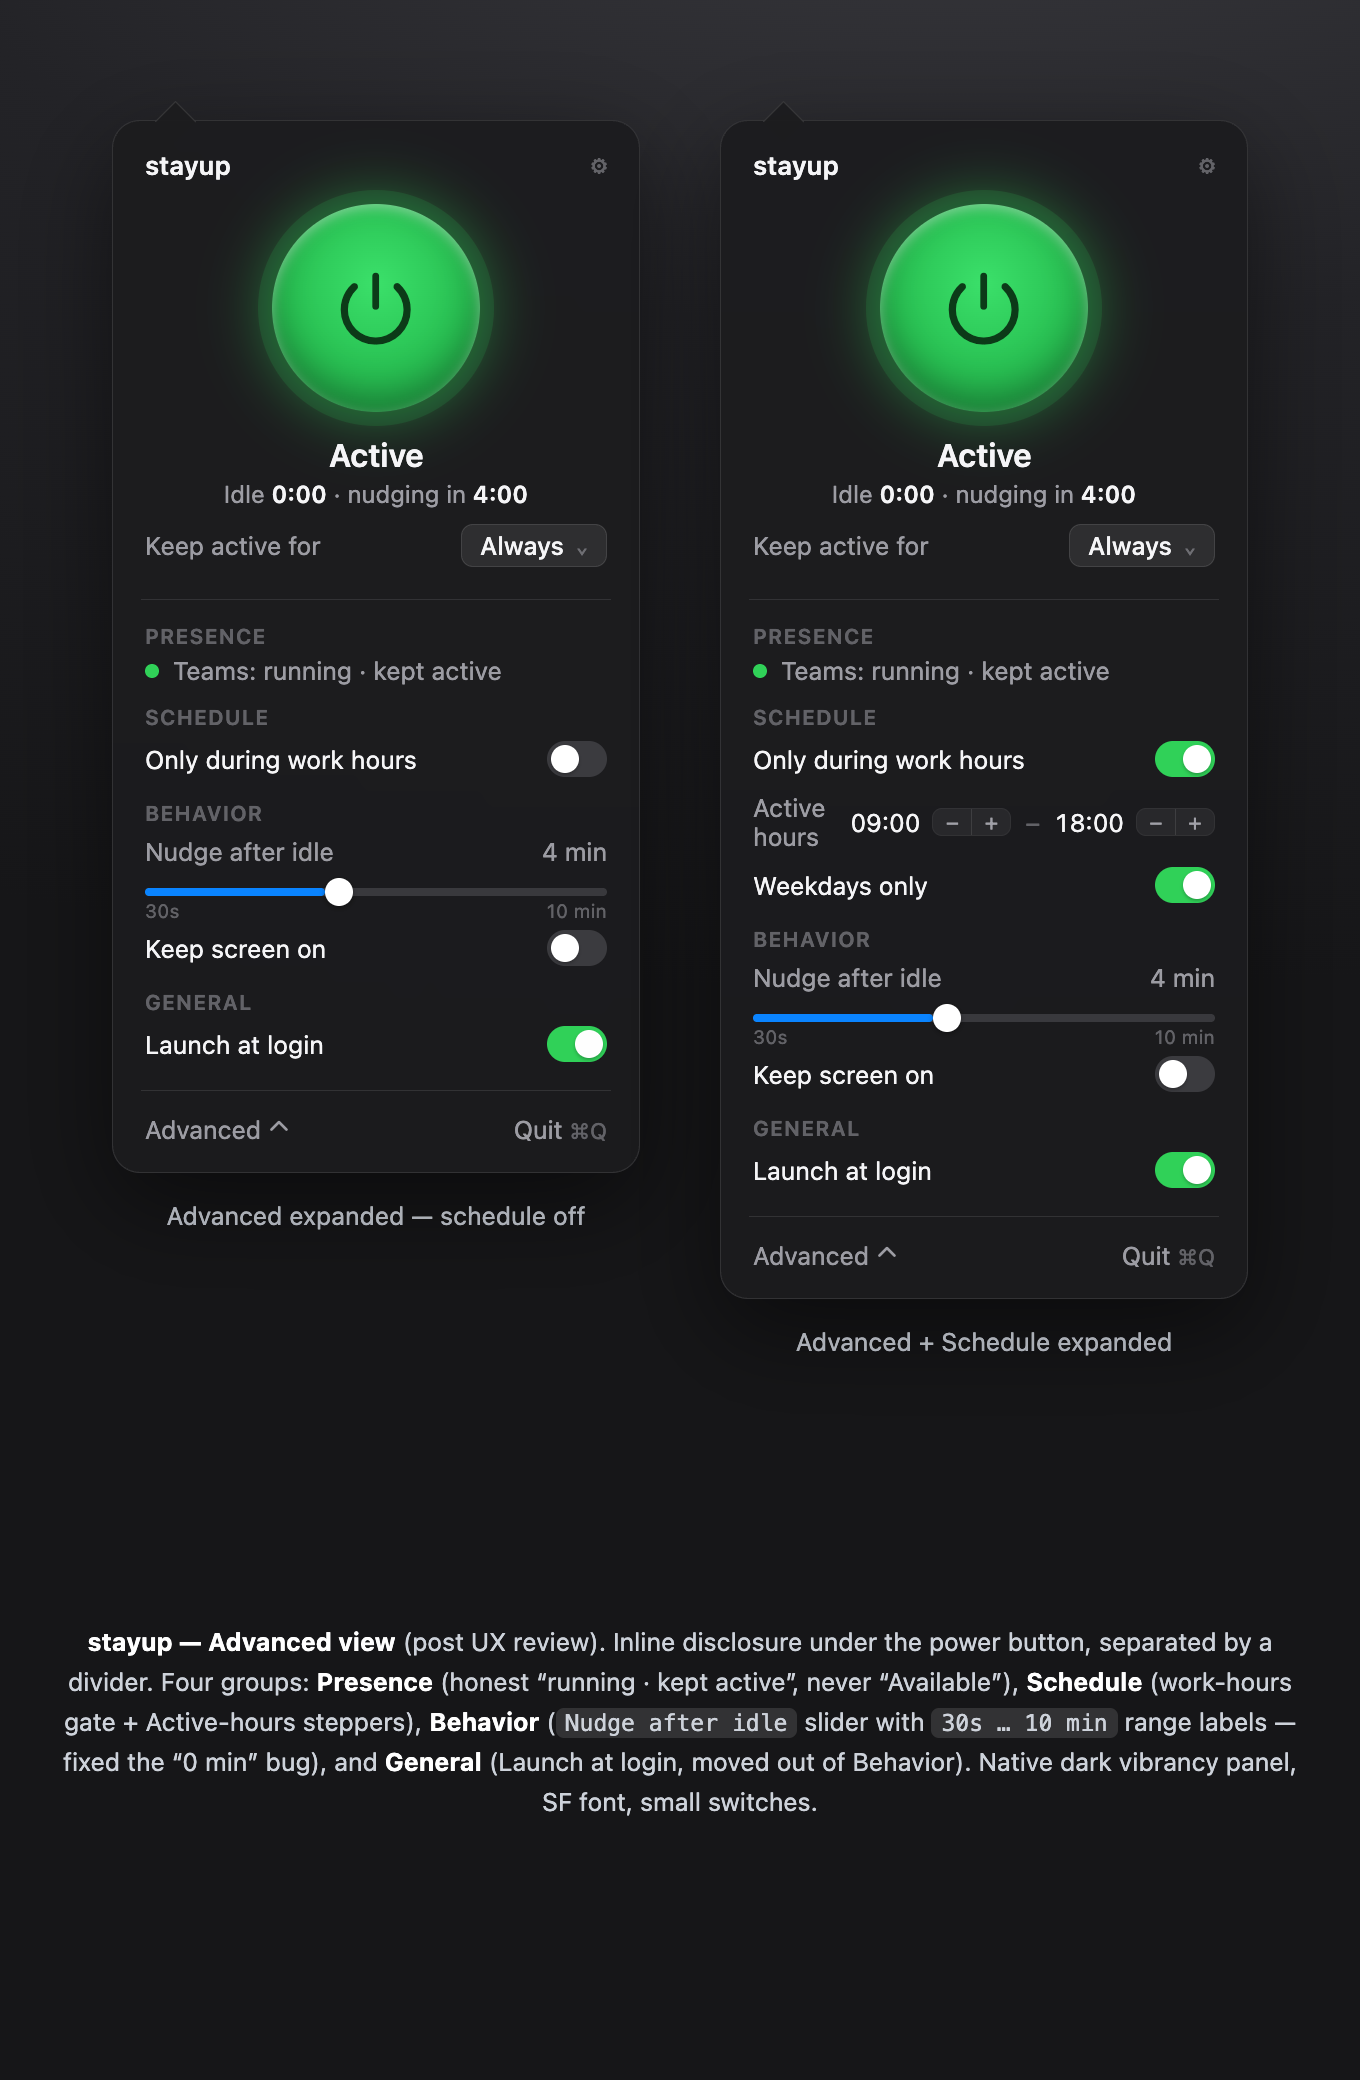
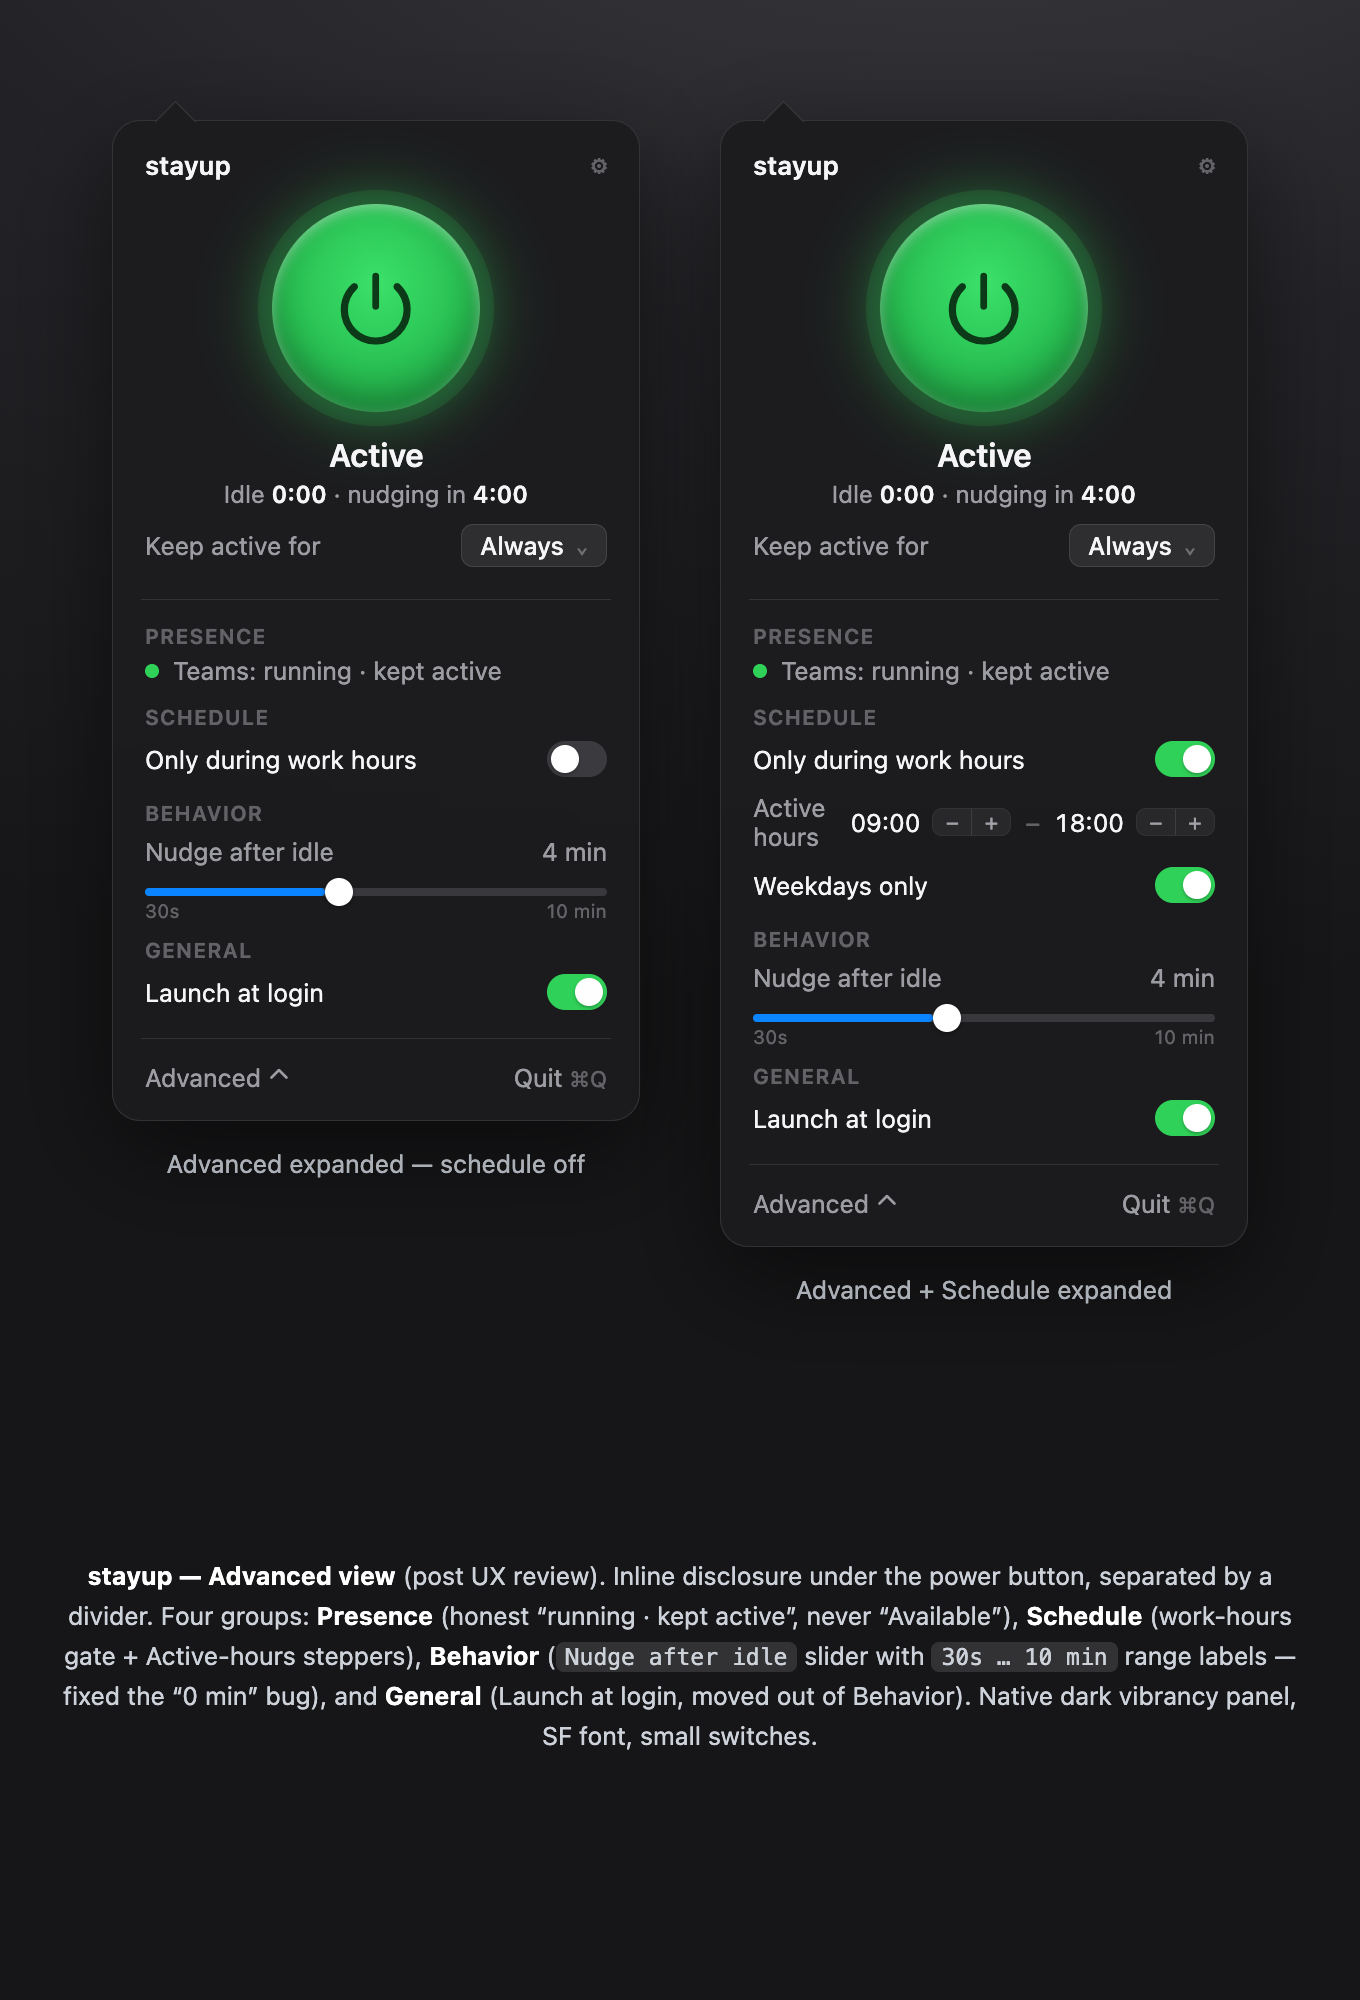
feat: always keep screen on while active; remove the now-meaningless toggle
Keeping the screen on is the only way to stay green hands-off (macOS ignores synthetic
input once locked), so the OFF mode was a footgun. Now always holds the display-sleep
assertion while active. Removed the Keep-screen-on toggle + docs/mockup.

Claude-Session: https://claude.ai/code/session_01Jfo7QMdyuiQa8VFzN3ZjDt

diff --git a/stayup/Services/ActivityController.swift b/stayup/Services/ActivityController.swift
@@ -1,10 +1,12 @@
 import SwiftUI
 import AppKit
 import ApplicationServices
+import IOKit.pwr_mgt
 
 /// The brain. Owns the Active/Paused state machine, drives the 1-second tick
-/// that reads idle time and fires the nudge, handles the duration timer,
-/// screen-lock suspension, and schedule gating.
+/// that reads idle time and fires the nudge, handles the duration timer and
+/// schedule gating, and — while Active — holds an IOKit power assertion so the
+/// Mac doesn't idle-sleep (sleeping would stop the nudge and drop you to Away).
 ///
 /// Single shared instance so the global hotkey can reach it without wiring.
 @MainActor
@@ -13,7 +15,6 @@ final class ActivityController: ObservableObject {
 
     enum Mode: Equatable { case paused, activeAlways, activeTimed }
 
-    /// Duration the picker offers. `.always` = no timer.
     enum Duration: String, CaseIterable, Identifiable {
         case always, h1 = "1", h2 = "2", h4 = "4"
         var id: String { rawValue }
@@ -35,21 +36,24 @@ final class ActivityController: ObservableObject {
         }
     }
 
-    // MARK: Published state (drives the UI)
+    // MARK: Published state
     @Published private(set) var mode: Mode = .paused
     @Published private(set) var timerEnd: Date?
     @Published private(set) var idleSeconds: Int = 0
-    @Published private(set) var isLocked: Bool = false
     @Published private(set) var isTrusted: Bool = PermissionManager.isTrusted()
     @Published var duration: Duration {
         didSet {
             UserDefaults.standard.set(duration.rawValue, forKey: "durationChoice")
-            if isActive { applyActive() }  // re-arm with the new duration
+            if isActive { applyActive() }
         }
     }
 
     private nonisolated(unsafe) var timer: Timer?
     private var notifiedExpiry = false
+
+    // Power assertion (keep the screen on — and Mac awake — while Active, so it
+    // never locks and the nudge keeps you green even when you step away).
+    private var sleepAssertionID: IOPMAssertionID = 0
 
     var isActive: Bool { mode != .paused }
 
@@ -66,7 +70,6 @@ final class ActivityController: ObservableObject {
         isActive ? pause() : applyActive()
     }
 
-    /// Turn on using the currently selected duration.
     func applyActive() {
         if let secs = duration.seconds {
             mode = .activeTimed
@@ -77,12 +80,14 @@ final class ActivityController: ObservableObject {
         }
         notifiedExpiry = false
         persist()
+        reconcilePowerAssertion()
     }
 
     func pause() {
         mode = .paused
         timerEnd = nil
         persist()
+        reconcilePowerAssertion()
     }
 
     func requestPermission() {
@@ -90,13 +95,11 @@ final class ActivityController: ObservableObject {
     }
 
     // MARK: Derived display values
-    /// Seconds until the next nudge fires (the idle countdown). 0 when not active.
     var secondsUntilNudge: Int {
-        guard isActive, !isLocked else { return 0 }
+        guard isActive else { return 0 }
         return max(0, idleThreshold - idleSeconds)
     }
 
-    /// Remaining time in a timed session, or nil when not timed.
     var timedRemaining: TimeInterval? {
         guard mode == .activeTimed, let end = timerEnd else { return nil }
         return max(0, end.timeIntervalSinceNow)
@@ -113,15 +116,9 @@ final class ActivityController: ObservableObject {
         return v == 0 ? 240 : v
     }
     private var scheduleEnabled: Bool { UserDefaults.standard.bool(forKey: "scheduleEnabled") }
-    private var scheduleStart: Int {
-        UserDefaults.standard.object(forKey: "scheduleStartHour") as? Int ?? 9
-    }
-    private var scheduleEnd: Int {
-        UserDefaults.standard.object(forKey: "scheduleEndHour") as? Int ?? 18
-    }
-    private var scheduleWeekdaysOnly: Bool {
-        UserDefaults.standard.object(forKey: "scheduleWeekdaysOnly") as? Bool ?? true
-    }
+    private var scheduleStart: Int { UserDefaults.standard.object(forKey: "scheduleStartHour") as? Int ?? 9 }
+    private var scheduleEnd: Int { UserDefaults.standard.object(forKey: "scheduleEndHour") as? Int ?? 18 }
+    private var scheduleWeekdaysOnly: Bool { UserDefaults.standard.object(forKey: "scheduleWeekdaysOnly") as? Bool ?? true }
 
     // MARK: The tick
     private func startTicking() {
@@ -129,8 +126,6 @@ final class ActivityController: ObservableObject {
             Task { @MainActor in self?.tick() }
         }
         t.tolerance = 0.2
-        // .common modes so the tick keeps firing while the popover/menu is open
-        // (a default-mode timer freezes during UI tracking).
         RunLoop.main.add(t, forMode: .common)
         timer = t
         tick()
@@ -142,13 +137,14 @@ final class ActivityController: ObservableObject {
 
         if expireIfNeeded() { return }
 
+        reconcilePowerAssertion()
+
         guard shouldNudgeNow() else { return }
         if idleSeconds >= idleThreshold {
             ActivityInjector.nudge()
         }
     }
 
-    /// Returns true if a timed session just expired (and was paused).
     @discardableResult
     private func expireIfNeeded() -> Bool {
         guard mode == .activeTimed, let end = timerEnd, Date() >= end else { return false }
@@ -160,24 +156,47 @@ final class ActivityController: ObservableObject {
         return true
     }
 
+    /// Whether stayup should be actively keeping you up right now. Lock state is
+    /// intentionally NOT considered — while Active, stayup keeps you online
+    /// regardless of whether the screen is locked.
     private func shouldNudgeNow() -> Bool {
-        guard isActive, isTrusted, !isLocked else { return false }
-        // A timed session is an explicit override — it ignores the schedule.
-        if mode == .activeTimed { return true }
+        guard isActive, isTrusted else { return false }
+        if mode == .activeTimed { return true }  // timer overrides the schedule
         if scheduleEnabled {
             return ScheduleManager.isWithin(
-                startHour: scheduleStart,
-                endHour: scheduleEnd,
-                weekdaysOnly: scheduleWeekdaysOnly
-            )
+                startHour: scheduleStart, endHour: scheduleEnd, weekdaysOnly: scheduleWeekdaysOnly)
         }
         return true
     }
 
+    // MARK: Power assertion (keep awake)
+    /// While active, prevent display sleep — this keeps the screen on so the Mac
+    /// never locks, which is the only way the nudge can keep you green when you
+    /// step away (macOS ignores synthetic input once the screen is locked).
+    private func reconcilePowerAssertion() {
+        if shouldNudgeNow() {
+            guard sleepAssertionID == 0 else { return }  // already held
+            var id: IOPMAssertionID = 0
+            let r = IOPMAssertionCreateWithName(
+                kIOPMAssertionTypePreventUserIdleDisplaySleep as CFString,
+                IOPMAssertionLevel(kIOPMAssertionLevelOn),
+                "stayup is keeping you active" as CFString, &id)
+            if r == kIOReturnSuccess { sleepAssertionID = id }
+        } else {
+            releaseAssertion()
+        }
+    }
+
+    private func releaseAssertion() {
+        if sleepAssertionID != 0 {
+            IOPMAssertionRelease(sleepAssertionID)
+            sleepAssertionID = 0
+        }
+    }
+
     // MARK: State persistence
     private func restoreState() {
-        // Always start Paused. The user explicitly turns stayup on each session —
-        // granting permission or launching should never silently start nudging.
+        // Always start Paused. The user explicitly turns stayup on each session.
         mode = .paused
         timerEnd = nil
         persist()
@@ -198,30 +217,17 @@ final class ActivityController: ObservableObject {
         }
     }
 
-    // MARK: Lock / wake handling
+    // MARK: Wake handling (recompute timed expiry from wall-clock on wake)
     private func observeSystemEvents() {
-        let dnc = DistributedNotificationCenter.default()
-        dnc.addObserver(forName: .init("com.apple.screenIsLocked"), object: nil, queue: .main) { [weak self] _ in
-            Task { @MainActor in self?.isLocked = true }
-        }
-        dnc.addObserver(forName: .init("com.apple.screenIsUnlocked"), object: nil, queue: .main) { [weak self] _ in
-            Task { @MainActor in self?.handleWakeOrUnlock() }
-        }
         NSWorkspace.shared.notificationCenter.addObserver(
             forName: NSWorkspace.didWakeNotification, object: nil, queue: .main
         ) { [weak self] _ in
-            Task { @MainActor in self?.handleWakeOrUnlock() }
+            Task { @MainActor in self?.expireIfNeeded() }
         }
-    }
-
-    /// On unlock or wake, clear the lock flag and recompute expiry from the
-    /// stored wall-clock end Date (a closed lid must not extend the session).
-    private func handleWakeOrUnlock() {
-        isLocked = false
-        expireIfNeeded()
     }
 
     deinit {
         timer?.invalidate()
+        if sleepAssertionID != 0 { IOPMAssertionRelease(sleepAssertionID) }
     }
 }

diff --git a/README.md b/README.md
@@ -57,10 +57,9 @@ step away.
 - **Actually keeps you Available** — resets the input-idle timer, not just the display.
 - **Timed sessions** — "keep me active for 1h / 2h / 4h" for that one long meeting, then auto-off.
 - **Work-hours schedule** — only active Mon–Fri 9–6 (configurable), if you want.
-- **Keeps your Mac awake** — holds a power assertion while active so it never idle-sleeps.
-- **Keep screen on** — turn this on to stay green even when you walk away: it keeps the display
-  lit so the Mac never *locks*. (macOS ignores the nudge once the screen is locked, so with this
-  off you'll go Away when it locks — which is the honest outcome.)
+- **Stays green even when you step away** — while active it keeps the screen on (so the Mac
+  never locks) and nudges, so Teams keeps showing you Available. (macOS ignores the nudge once
+  the screen is locked — keeping the screen on is the only way to stay green hands-off.)
 - **Invisible** — net-zero cursor movement, only fires when you're genuinely idle.
 - **Private** — zero network calls, zero telemetry, ever.
 - **Native & tiny** — pure SwiftUI, no Electron, no dependencies beyond a hotkey lib.
@@ -90,7 +89,7 @@ Enable **stayup** under System Settings → Privacy & Security → Accessibility
 - Click the menu bar icon → tap the **green power button** to start.
 - Pick a duration under **Keep active for** for a timed session.
 - Open **Advanced ▾** for presence detection, work-hours schedule, idle
-  threshold, **Keep screen on**, and launch-at-login.
+  threshold, and launch-at-login.
 - Global hotkey: **⌘⇧U** toggles Active/Paused from anywhere.
 
 <div align="center">
@@ -101,8 +100,7 @@ Enable **stayup** under System Settings → Privacy & Security → Accessibility
 
 ```
  while Active:
-   hold an IOKit power assertion   → the Mac won't idle-sleep
-                                     (so it keeps working even with the screen off)
+   hold an IOKit power assertion   → keeps the screen on, so the Mac never locks
  every 1s:
    read input-idle seconds  (CGEventSource, the same value Teams reads)
    if idle ≥ threshold:
@@ -111,10 +109,9 @@ Enable **stayup** under System Settings → Privacy & Security → Accessibility
 
 The nudge updates the combined-session idle counter that Electron apps query via
 `powerMonitor.getSystemIdleTime()`, so your status stays Available. No cursor
-jump, no `cliclick`, no daemon. The power assertion keeps the Mac awake so the
-nudge keeps firing. One caveat from macOS: **once the screen locks, the OS ignores
-synthetic input**, so you go Away. Turn on **Keep screen on** to prevent the lock
-and stay green while away from your desk.
+jump, no `cliclick`, no daemon. Keeping the screen on matters because **once the
+screen locks, macOS ignores synthetic input** — so stayup holds the display awake
+while active, which is what lets you stay green even when you walk away.
 
 ## 🤝 Contributing
 

diff --git a/CHANGELOG.md b/CHANGELOG.md
@@ -15,11 +15,9 @@ First public release.
   Teams/Slack read, so you stay Available without the cursor visibly moving.
 - **Timed sessions** — keep active for 1h / 2h / 4h, then auto-pause (with a notification).
 - **Work-hours schedule** — optionally only stay active Mon–Fri during set hours.
-- **Keeps your Mac awake** — while active, holds an IOKit power assertion so the Mac
-  doesn't idle-sleep (the nudge keeps firing even with the screen off).
-- **Keep screen on** (optional toggle) — prevents display sleep so the Mac never *locks*;
-  needed to stay green while away, because macOS ignores synthetic input once the screen
-  is locked (with it off, you go Away when it locks).
+- **Stays green when you step away** — while active, holds an IOKit power assertion that
+  keeps the screen on so the Mac never locks (macOS ignores synthetic input once locked, so
+  keeping the display awake is the only way the nudge can keep you Available hands-off).
 - **Colored menu bar status icon** reflecting state at a glance.
 - **Launch at login** and a global hotkey (⌘⇧U) to toggle.
 - **Accessibility onboarding** with a clear permission gate.